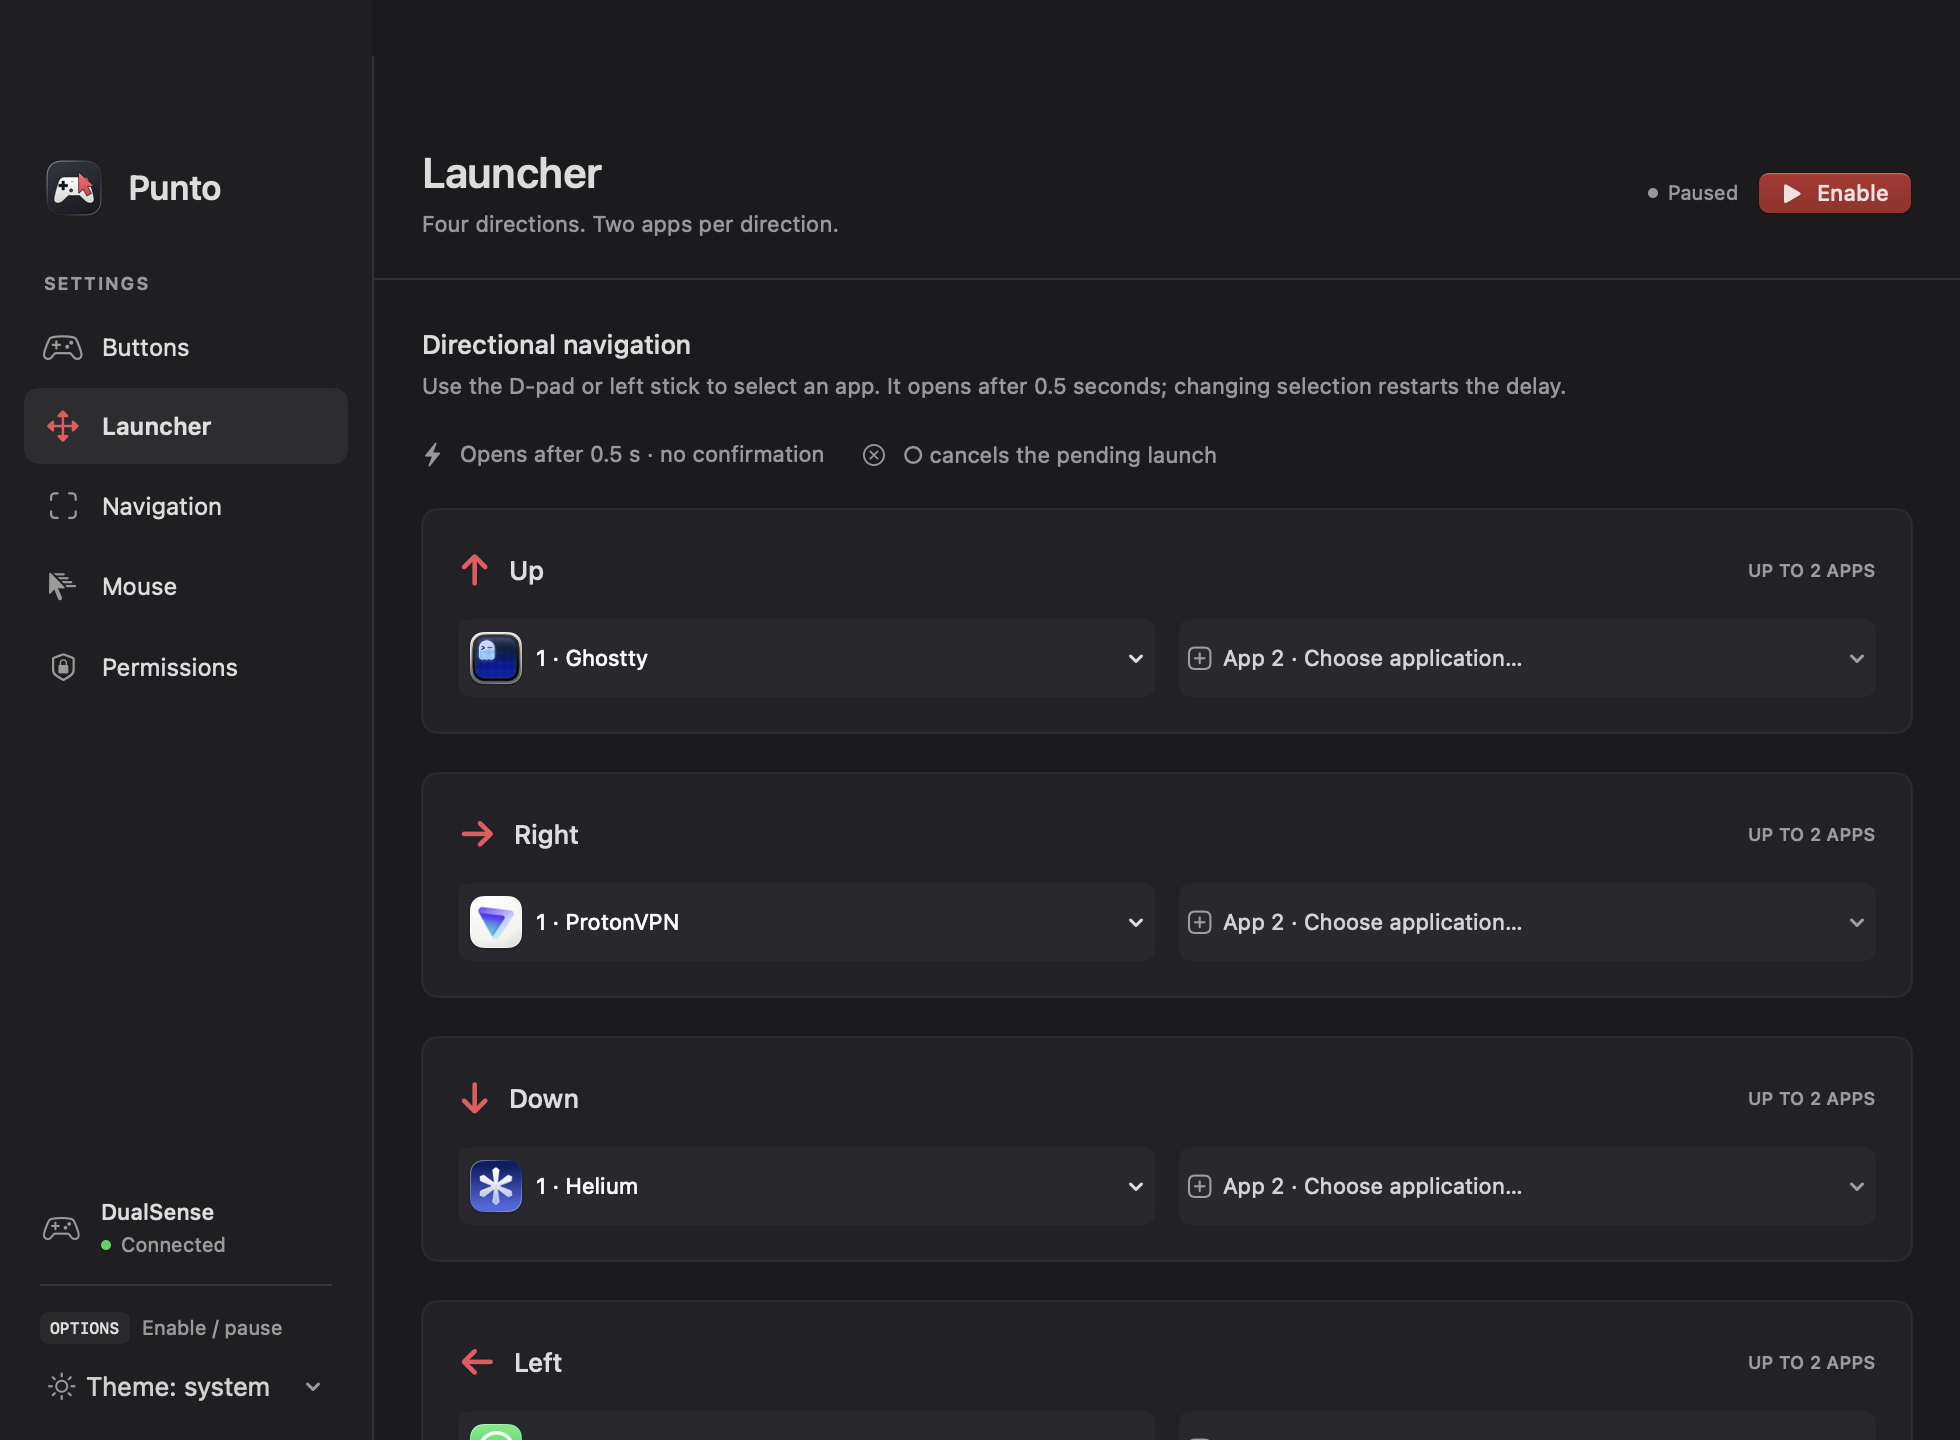
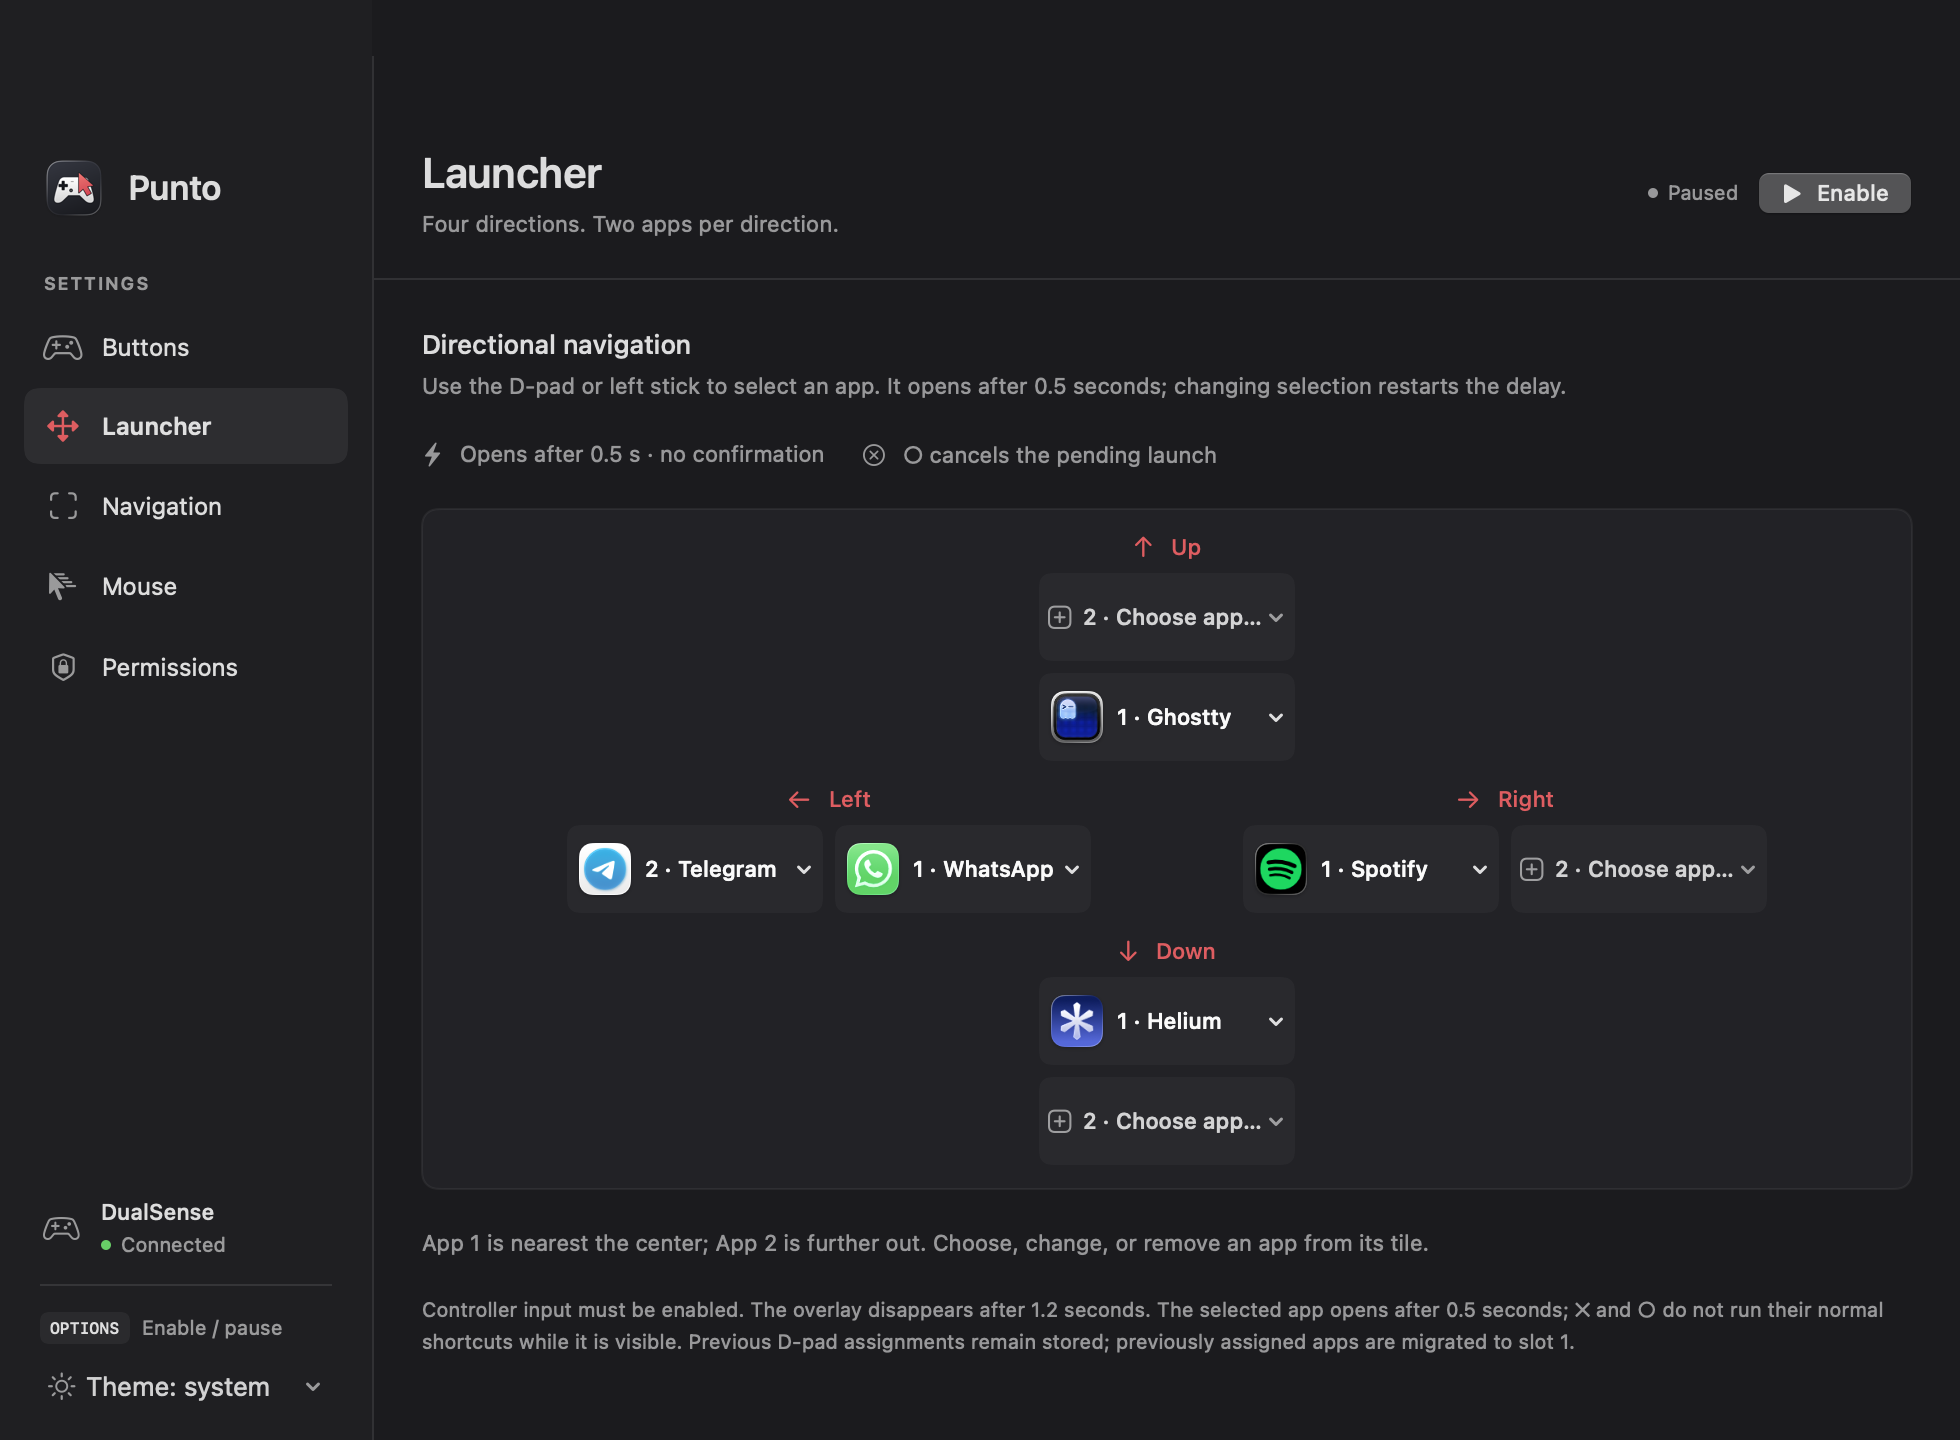
Mirror launcher directions in the configuration layout

diff --git a/UI.swift b/UI.swift
@@ -407,37 +407,52 @@ private struct SettingsView: View {
                 Label("Opens after 0.5 s · no confirmation", systemImage: "bolt.fill")
                 Label("○ cancels the pending launch", systemImage: "xmark.circle")
             }.font(.system(size: 11)).foregroundColor(.secondary)
-            ForEach(0..<4, id: \.self) { direction in
-                VStack(alignment: .leading, spacing: 12) {
-                    HStack(spacing: 9) {
-                        Text(["↑", "→", "↓", "←"][direction]).font(.system(size: 21, weight: .medium)).foregroundColor(accent)
-                        Text(["Up", "Right", "Down", "Left"][direction]).font(.system(size: 13, weight: .medium))
-                        Spacer()
-                        Text("UP TO 2 APPS").font(.system(size: 9, weight: .medium)).foregroundColor(.secondary)
-                    }
-                    HStack(spacing: 12) {
-                        ForEach(0..<2, id: \.self) { slot in
-                            let path = model.launcherApps[direction][slot]
-                            Menu {
-                                Button(path.isEmpty ? "Choose application…" : "Change application…") { model.configureLauncher(direction, slot: slot) }
-                                if !path.isEmpty { Divider(); Button("Remove application") { model.clearLauncher(direction, slot: slot) } }
-                            } label: {
-                                HStack(spacing: 9) {
-                                    if !path.isEmpty { Image(nsImage: NSWorkspace.shared.icon(forFile: path)).resizable().frame(width: 20, height: 20) }
-                                    else { Image(systemName: "plus.app").font(.system(size: 17)).foregroundColor(.secondary) }
-                                    Text(path.isEmpty ? "App \(slot + 1) · Choose application…" : "\(slot + 1) · \(FileManager.default.displayName(atPath: path))")
-                                        .font(.system(size: 11)).lineLimit(1)
-                                    Spacer(minLength: 0)
-                                }.padding(11)
-                            }.menuStyle(.borderlessButton).tint(path.isEmpty ? .secondary : .primary).frame(height: 39)
-                                .background(Color.primary.opacity(0.035)).cornerRadius(6).frame(maxWidth: .infinity)
-                        }
-                    }
-                }.padding(18).card(radius: 8)
-            }
+            VStack(spacing: 12) {
+                launcherDirectionSettings(0)
+                HStack(spacing: 0) {
+                    launcherDirectionSettings(3)
+                    Color.clear.frame(width: 76, height: 64).accessibilityHidden(true)
+                    launcherDirectionSettings(1)
+                }
+                launcherDirectionSettings(2)
+            }.padding(12).frame(maxWidth: .infinity).card(radius: 8)
+            Text("App 1 is nearest the center; App 2 is further out. Choose, change, or remove an app from its tile.")
+                .font(.system(size: 11)).foregroundColor(.secondary)
             Text("Controller input must be enabled. The overlay disappears after 1.2 seconds. The selected app opens after 0.5 seconds; ✕ and ○ do not run their normal shortcuts while it is visible. Previous D-pad assignments remain stored; previously assigned apps are migrated to slot 1.")
                 .font(.system(size: 10)).foregroundColor(.secondary).lineSpacing(3)
         }
+    }
+    private func launcherDirectionSettings(_ direction: Int) -> some View {
+        VStack(spacing: 6) {
+            Label(["Up", "Right", "Down", "Left"][direction], systemImage: ["arrow.up", "arrow.right", "arrow.down", "arrow.left"][direction])
+                .font(.system(size: 11, weight: .medium)).foregroundColor(accent)
+            if direction == 0 || direction == 2 {
+                VStack(spacing: 6) {
+                    ForEach(direction == 0 ? [1, 0] : [0, 1], id: \.self) { launcherAppTile(direction, slot: $0) }
+                }
+            } else {
+                HStack(spacing: 6) {
+                    ForEach(direction == 3 ? [1, 0] : [0, 1], id: \.self) { launcherAppTile(direction, slot: $0) }
+                }
+            }
+        }
+    }
+    private func launcherAppTile(_ direction: Int, slot: Int) -> some View {
+        let path = model.launcherApps[direction][slot]
+        let title = path.isEmpty ? "Choose app…" : FileManager.default.displayName(atPath: path)
+        return Menu {
+            Button(path.isEmpty ? "Choose application…" : "Change application…") { model.configureLauncher(direction, slot: slot) }
+            if !path.isEmpty { Divider(); Button("Remove application") { model.clearLauncher(direction, slot: slot) } }
+        } label: {
+            HStack(spacing: 7) {
+                if path.isEmpty { Image(systemName: "plus.app").font(.system(size: 18)).foregroundColor(.secondary).frame(width: 22) }
+                else { Image(nsImage: NSWorkspace.shared.icon(forFile: path)).resizable().frame(width: 22, height: 22) }
+                Text("\(slot + 1) · \(title)").font(.system(size: 11, weight: .medium)).lineLimit(1)
+                Spacer(minLength: 0)
+            }.padding(.horizontal, 8)
+        }.menuStyle(.borderlessButton).tint(path.isEmpty ? .secondary : .primary)
+            .frame(width: 128, height: 44).background(Color.primary.opacity(0.035)).cornerRadius(6)
+            .help("\(["Up", "Right", "Down", "Left"][direction]) · App \(slot + 1): \(title)")
     }
     private var navigationSettings: some View {
         VStack(alignment: .leading, spacing: 16) {

diff --git a/docs/DEVELOPMENT.md b/docs/DEVELOPMENT.md
@@ -93,6 +93,8 @@ When upgrading from the old bundle, replace the old Dock shortcut with `Punto.ap
 
 ### Launcher
 
+Configuration mirrors the overlay’s directional cross: Up/Down slots stack vertically, Left/Right slots sit horizontally, and slot 1 is always nearest the empty center. Each tile retains its choose/change/remove menu and displays its slot number.
+
 - Two slots per direction, saved as application paths.
 - A D-pad direction or left-stick tilt selects the first available app. It opens **500 ms after the last selection**, without confirmation.
 - Pressing the same direction again while the overlay is visible cycles between occupied slots.

diff --git a/README.md b/README.md
@@ -78,7 +78,7 @@ This feature is **experimental** and uses the app’s native macOS Accessibility
 
 ### Your apps in four directions
 
-Choose up to **eight applications**, arranged across up, right, down, and left.
+Choose up to **eight applications** in a configuration that mirrors the launcher’s directional cross. App 1 is closest to the center; App 2 is further out.
 
 <img src="docs/screenshots/launcher-settings.png" width="960" alt="Directional launcher settings with two application slots per direction">
 
